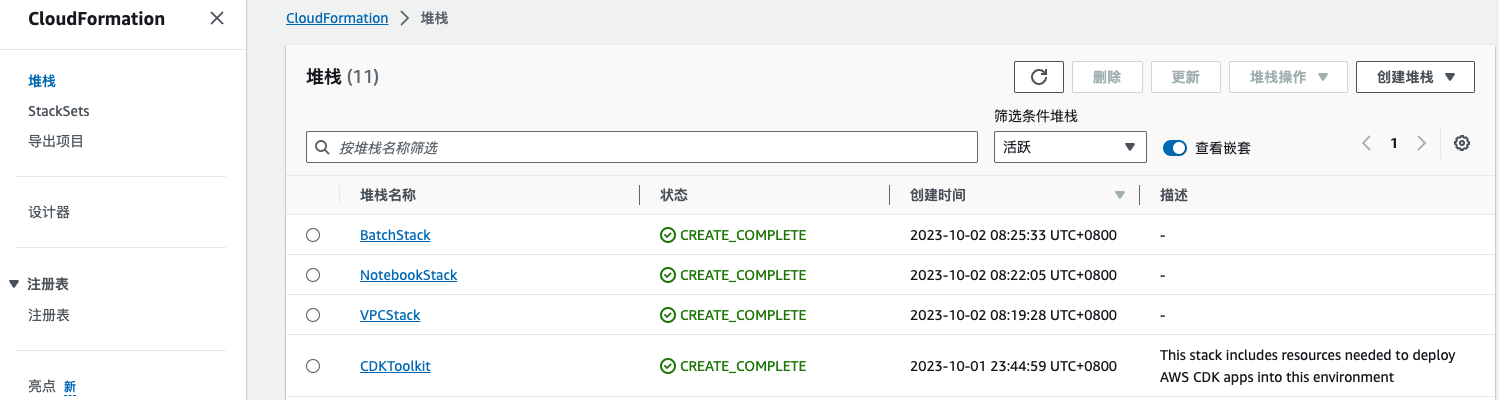
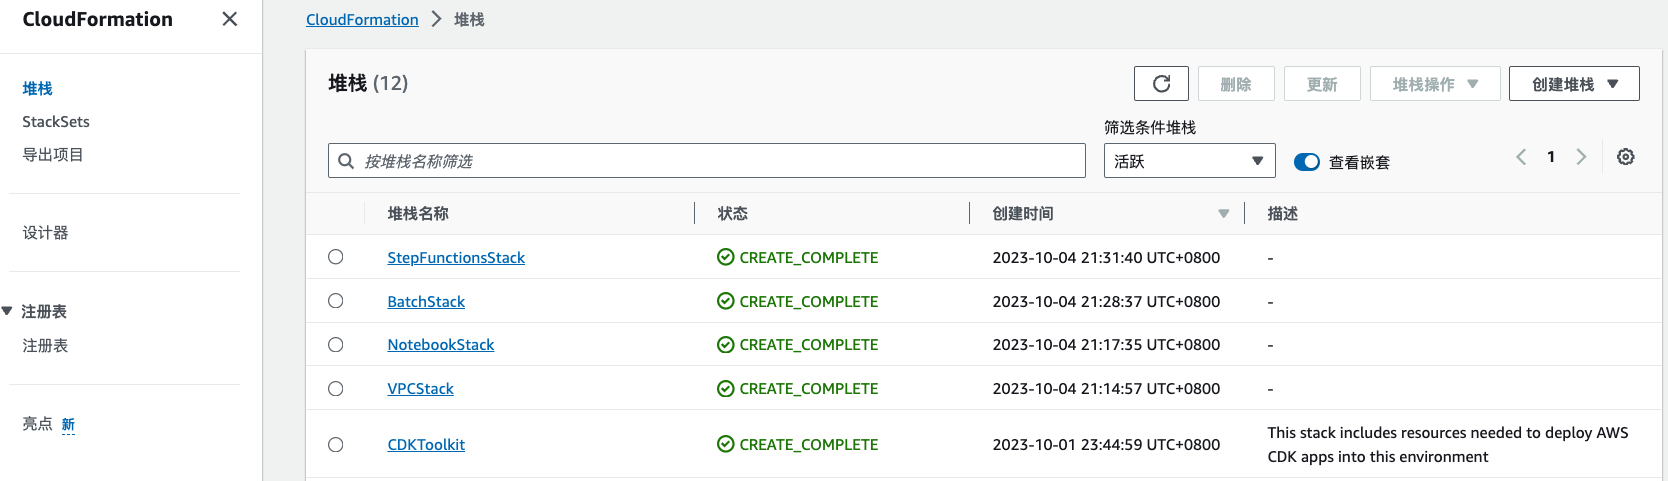
arch

diff --git a/workshop/content/deploy/solution-deploy/index.zh.md b/workshop/content/deploy/solution-deploy/index.zh.md
@@ -18,11 +18,12 @@ cdk deploy --all --require-approval never
 :::
 (注：--require-approval never表示不会在部署过程中提示选择“yes/no”自动往下运行，如果希望部署时确认是否部署则只需要运行“cdk deploy --all”即可)
 
-3.CDK部署将提供3个CloudFormation堆栈以及相关资源，例如 VPC、EFS、DynamoDB、ECR、Batch、和 SageMaker Notebook 等，预计安装的部署时间为13分钟
+3.CDK部署将提供4个CloudFormation堆栈以及相关资源，例如 VPC、EFS、DynamoDB、ECR、Batch、SageMaker Notebook和Step Functions状态机等，预计安装的部署时间约为18分钟
 :::code{showCopyAction=true showLineNumbers=false language=bash}
-VPCStack： 3分钟
-BatchStack：3分钟
-NotebookStack： 4分钟
+VPCStack： 3分钟左右
+BatchStack：4分钟左右
+NotebookStack： 11分钟左右
+StepFunctinosStack：1分钟左右
 :::
 部署过程如下:
 

diff --git a/workshop/content/introduction/index.zh.md b/workshop/content/introduction/index.zh.md
@@ -26,11 +26,14 @@ weight : 10
 - EFS：共享文件系统，存储任务运行脚本
 - SageMaker Notebook：任务投递客户端
 - Step Functions：自动化工作流
+- SNS：邮件通知服务
 
 ## 方案架构图
 
-大规模任务调度
+大规模批量任务分析
 
-![](/static/arch-large-scale.png)
+![](/static/arch-batch.png)
 
-自动化流程
+自动化工作流
+
+![](/static/arch-pipeline.png)

diff --git a/workshop/content/job/large-scale/index.zh.md b/workshop/content/job/large-scale/index.zh.md
@@ -1,9 +1,9 @@
 ---
-title : "大规模任务"
+title : "大规模批量任务"
 weight : 51
 ---
 
-本节通过批量运行质控任务来演示如何大规模运行计算任务
+本节通过批量运行质控任务来演示如何大规模批量运行分析任务
 
 1.上传任务源数据到S3桶中，可以用以下方式复制这些示例数据：
 ::alert[123456789012换成你自己的账户ID]
